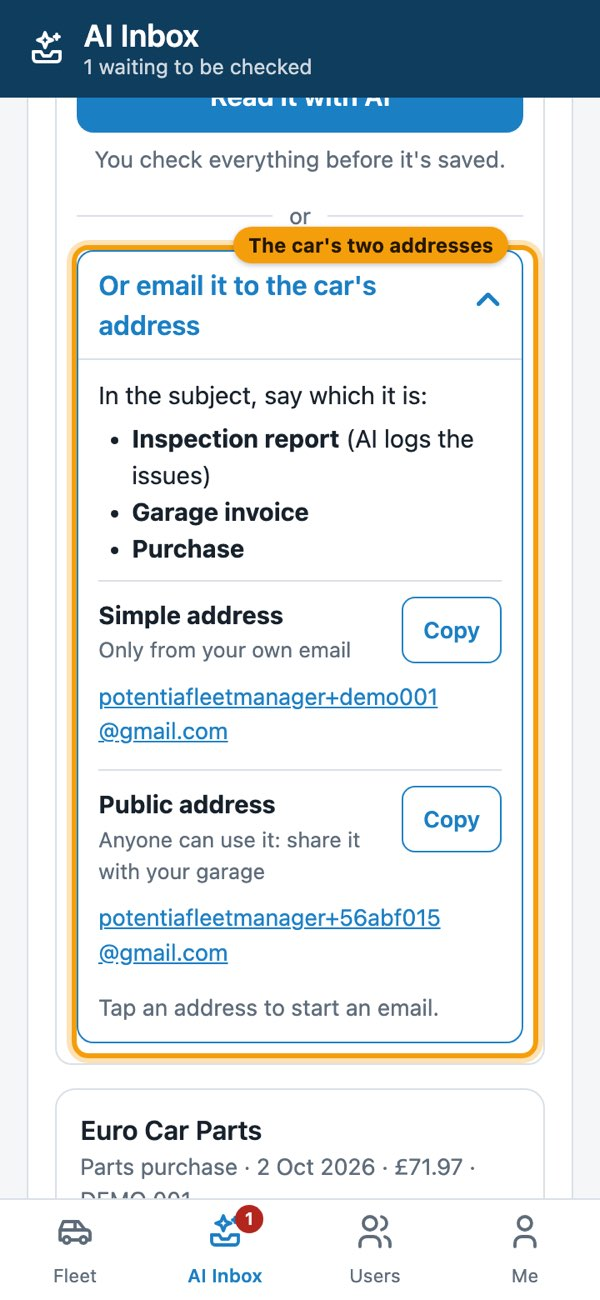
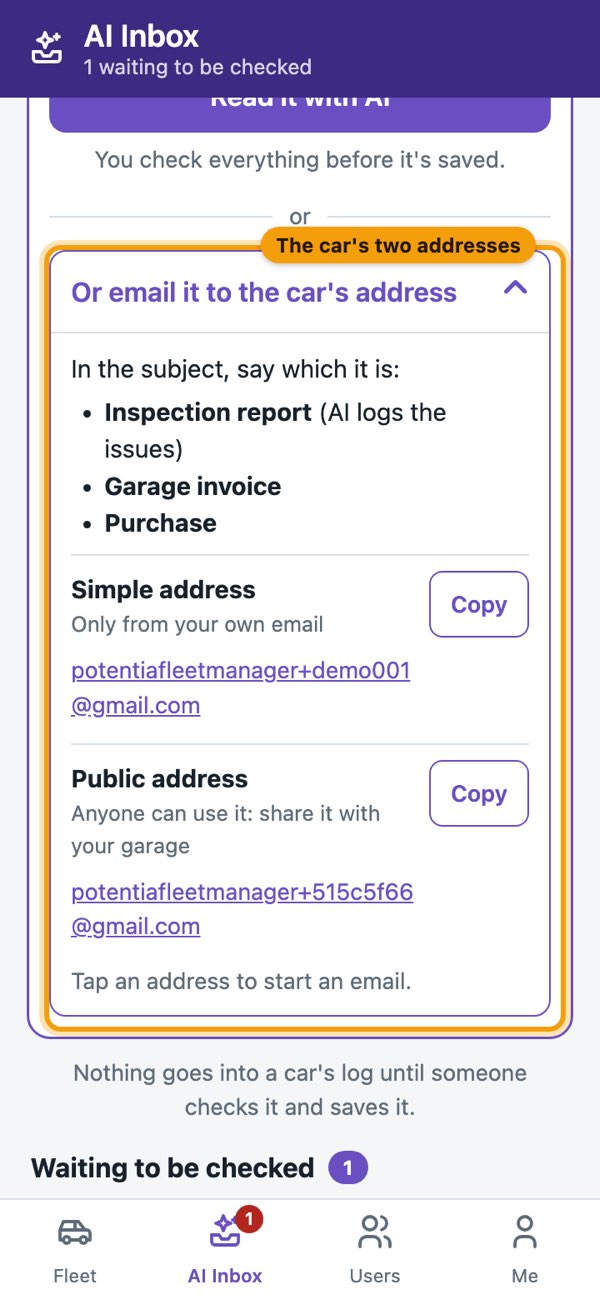
The AI Inbox is purple, with an Add with AI button worded the same as on a car's page; Add entry is now Manually log an entry

diff --git a/web/views-inbox.js b/web/views-inbox.js
@@ -115,6 +115,17 @@
     }
   }
 
+  // ---------- the "Add with AI" face, the same on the AI Inbox and on a car's page ----------
+  var ADD_WITH_AI = 'Use AI to rapidly process inspection reports, garage invoices or purchase receipts.';
+  /** The icon and words of an "Add with AI" button. `foot` is a last line, such as where it goes. */
+  function addWithAi(foot) {
+    return [FleetApp.icon('inbox', 30), el('span', { class: 'ai-add-text' }, [
+      el('span', { class: 'ai-add-title' }, [el('strong', { text: 'Add with AI' }), el('span', { class: 'ai-add-tag', text: 'Generally faster' })]),
+      el('span', { class: 'ai-add-what', text: ADD_WITH_AI }),
+      foot ? el('span', { class: 'ai-add-foot', text: foot }) : null,
+    ])];
+  }
+
   // ---------- emailing instead ----------
   // A car's addresses: simple (from the registration, for your own email) and public (a short reference, for anyone). Asked for once
   var addresses = {};
@@ -267,24 +278,24 @@
     var recentBox = el('div');
     var fileBox = el('div');
     var sharedBox = el('div');
-    root.replaceChildren(el('section', { class: 'card' }, [
-      el('div', { class: 'page-head' }, [el('h1', { text: 'AI Inbox' })]),
-      el('p', { class: 'section-note', text: 'Reports, invoices and receipts waiting to be checked. Nothing is added to a vehicle\'s log until someone has looked at it and saved it.' }),
-      msg, sharedBox, fileBox, listBox, recentBox,
+    var waitingHead = el('h2', { class: 'ai-lead', hidden: true });
+    root.replaceChildren(el('div', { class: 'ai-page' }, [
+      msg, sharedBox, fileBox,
+      el('p', { class: 'muted small-text center ai-promise', text: 'Nothing goes into a car\'s log until someone checks it and saves it.' }),
+      waitingHead, listBox, recentBox,
     ]));
 
     var cars = []; // one list, filled again in place, so the forms see a newer answer
     var forms = [];
     var reading = true;
-    var intro = el('p', { class: 'muted small-text' });
+    var intro = el('p', { class: 'muted small-text', hidden: true });
     FleetApp.setBanner({ title: 'AI Inbox', icon: 'inbox', action: null });
     var flash = FleetApp.takeFlash();
     if (flash) msg.append(UI.notice(flash.kind === 'ok' ? 'ok' : 'info', flash.text)); // e.g. "3 receipts added"
 
-    function explainAdding() {
-      intro.textContent = reading
-        ? 'Take a photo, or choose photos or PDFs. AI reads them and you check everything before it is saved.'
-        : 'Take a photo, or choose a photo or PDF. Automatic reading is not switched on yet, so you will fill the details in yourself.';
+    function explainAdding() { // only needed when AI cannot read: otherwise the button says it all
+      intro.hidden = reading;
+      intro.textContent = 'Take a photo, or choose a photo or PDF. Automatic reading is not switched on yet, so you will fill the details in yourself.';
     }
     function newForm(carId, preset, onSent) {
       var form = uploadForm(cars, carId, preset, onSent);
@@ -293,10 +304,9 @@
     }
     function addBlock() {
       explainAdding();
-      return el('details', { class: 'copy-section', open: !!ctx.query.car || undefined }, [
-        el('summary', { text: 'Add an inspection report, garage invoice or purchase receipt' }),
-        intro,
-        newForm(ctx.query.car, null, null),
+      return el('details', { class: 'ai-card', open: !!ctx.query.car || undefined }, [
+        el('summary', {}, addWithAi('')),
+        el('div', { class: 'ai-card-body' }, [intro, newForm(ctx.query.car, null, null)]),
       ]);
     }
     // The forms are drawn once (so a chosen file is never lost); a newer list of cars only refreshes their pickers
@@ -344,11 +354,13 @@
       explainAdding();
       if (!saved) setCount(data.open.length); // the number on the menu is only ever set from a fresh answer
       FleetApp.setBanner({ subtitle: data.open.length ? data.open.length + ' waiting to be checked' : 'Nothing waiting' });
+      waitingHead.hidden = !data.open.length;
+      waitingHead.replaceChildren(document.createTextNode('Waiting to be checked'), el('span', { class: 'ai-count', text: String(data.open.length) }));
       listBox.replaceChildren.apply(listBox, data.open.length ? data.open.map(row) : [el('p', { class: 'muted', text: 'Nothing is waiting. Add something above' + (data.reading ? '' : ', or email it once that is switched on') + '.' })]);
       var wasOpen = !!recentBox.querySelector('details[open]');
       recentBox.replaceChildren();
       if (data.recent.length) {
-        recentBox.append(el('details', { class: 'copy-section', open: wasOpen || undefined }, [el('summary', { text: 'Recently handled (' + data.recent.length + ')' }), el('div', { class: 'stack' }, data.recent.map(row))]));
+        recentBox.append(el('details', { class: 'ai-recent', open: wasOpen || undefined }, [el('summary', { text: 'Recently handled (' + data.recent.length + ')' }), el('div', { class: 'stack' }, data.recent.map(row))]));
       }
     }
     function failed(e) {
@@ -535,5 +547,5 @@
     }
   };
 
-  window.InboxUI = { panel: panel, send: send, destination: destination, openResult: openResult, refreshCount: refreshCount, getCount: function () { return count; } };
+  window.InboxUI = { addWithAi: addWithAi, panel: panel, send: send, destination: destination, openResult: openResult, refreshCount: refreshCount, getCount: function () { return count; } };
 })();

diff --git a/web/styles.css b/web/styles.css
@@ -790,16 +790,45 @@ details.collapsible:has(.bin-card) { border-style: dashed; background: var(--bg)
 .entry-actions .btn { flex: 1 1 0; text-align: center; justify-content: center; }
 .btn.danger-outline { background: transparent; color: var(--bad); border: 1px solid var(--bad); }
 
-/* the car page's way into the AI Inbox */
-.ai-add { display: flex; align-items: center; gap: 12px; margin-top: 10px; min-height: 56px; padding: 10px 12px; border: 1.5px solid var(--note); border-radius: 10px; background: color-mix(in srgb, var(--note) 7%, var(--surface)); color: var(--note); text-decoration: none; }
+/* "Add with AI": a car page's way into the AI Inbox, and the button that opens the form there */
+.ai-add, .ai-card > summary { display: flex; align-items: center; gap: 12px; padding: 12px; color: var(--note); background: color-mix(in srgb, var(--note) 8%, var(--surface)); }
+.ai-add { margin-top: 10px; border: 1.5px solid var(--note); border-radius: 14px; text-decoration: none; }
 .ai-add[hidden] { display: none; }
-.ai-add .ico { display: flex; flex: none; }
-.ai-add-text { flex: 1; min-width: 0; display: flex; flex-direction: column; line-height: 1.35; }
-.ai-add-text strong { font-size: 1.05rem; }
+.ai-add .ico, .ai-card > summary .ico { display: flex; flex: none; }
+.ai-add-text { flex: 1; min-width: 0; display: flex; flex-direction: column; gap: 3px; line-height: 1.35; }
 .ai-add-title { display: flex; flex-wrap: wrap; align-items: center; column-gap: 8px; row-gap: 2px; }
+.ai-add-title strong { font-size: 1.15rem; }
 .ai-add-tag { font-size: 0.72rem; font-weight: 700; padding: 1px 8px; border-radius: 999px; background: var(--note); color: var(--surface); }
-.ai-add-what { font-size: 0.8rem; color: var(--text); }
-.ai-add-arrow { font-size: 1.25rem; font-weight: 700; }
+.ai-add-what { font-size: 0.84rem; font-weight: 400; color: var(--text); }
+.ai-add-foot { font-size: 0.82rem; font-weight: 700; margin-top: 2px; }
+
+/* the AI section is purple: its pages take the violet as their accent, with a deep purple banner */
+body.ai-section { --accent: var(--note); }
+body.ai-section .topbar { background: #3d2a82; }
+body.ai-section input[type="file"]::file-selector-button { font: inherit; font-size: 0.88rem; font-weight: 600; color: var(--note); background: var(--surface); border: 1px solid var(--note); border-radius: 8px; padding: 7px 12px; margin-right: 10px; cursor: pointer; }
+@media (prefers-color-scheme: dark) {
+  :root:not([data-theme="light"]) body.ai-section .topbar { background: #2e2163; }
+  :root:not([data-theme="light"]) body.ai-section .btn:not(.secondary):not(.danger):not(.danger-outline) { background: #7458d6; color: #fff; }
+}
+/* the card that holds the form (not clipped: the car picker opens over its edge) */
+.ai-card { border: 1.5px solid var(--note); border-radius: 14px; background: var(--surface); }
+.ai-card > summary { cursor: pointer; list-style: none; border-radius: 12.5px; }
+.ai-card > summary::-webkit-details-marker { display: none; }
+.ai-card > summary::after { content: '⌄'; flex: none; font-size: 1.4rem; line-height: 1; }
+.ai-card[open] > summary { border-radius: 12.5px 12.5px 0 0; border-bottom: 1.5px solid var(--note); }
+.ai-card[open] > summary::after { content: '⌃'; }
+.ai-card-body { padding: 14px 12px 12px; }
+.ai-card-body > p:first-child { margin-top: 0; }
+.ai-promise { margin: 10px 8px 14px; }
+.ai-lead { display: flex; align-items: center; gap: 8px; font-size: 1rem; margin: 4px 2px 8px; }
+.ai-lead[hidden] { display: none; }
+.ai-count { background: var(--note); color: var(--surface); border-radius: 999px; font-size: 0.75rem; padding: 1px 9px; }
+.ai-page .inbox-row { background: var(--surface); border-left: 4px solid var(--note); }
+.ai-page .chip.active { color: var(--note); background: color-mix(in srgb, var(--note) 12%, var(--surface)); border-color: transparent; }
+.ai-recent { margin-top: 14px; }
+.ai-recent > summary { cursor: pointer; min-height: 44px; display: flex; align-items: center; gap: 6px; font-weight: 700; color: var(--note); }
+.ai-page .report-box { background: var(--surface); border-color: var(--note); }
+
 /* in the AI Inbox form: the note under Read it with AI, and emailing instead */
 .read-note { margin: 6px 0 0; }
 .reads-left { display: block; color: var(--text); }

diff --git a/web/views-guide.js b/web/views-guide.js
@@ -139,7 +139,7 @@
         el('li', {}, [b('Maintenance:'), document.createTextNode(' work done (servicing, repairs), with parts and labour.')]),
         el('li', {}, [b('Purchase:'), document.createTextNode(' parts you have bought, which you later fit in a maintenance entry.')]),
       ]),
-      p([b('Create one'), document.createTextNode(' by hand with '), link('add', 'Add entry'), document.createTextNode(' ('), link('addissue', 'issue'), document.createTextNode(', '), link('addmaint', 'maintenance'), document.createTextNode(', '), link('addpurchase', 'purchase'), document.createTextNode('), or with AI by emailing or uploading a receipt (see 1).')]),
+      p([b('Create one'), document.createTextNode(' by hand with '), link('add', 'Manually log an entry'), document.createTextNode(' ('), link('addissue', 'issue'), document.createTextNode(', '), link('addmaint', 'maintenance'), document.createTextNode(', '), link('addpurchase', 'purchase'), document.createTextNode('), or with AI by emailing or uploading a receipt (see 1).')]),
       p([b('Reminders'), document.createTextNode(' are separate. '), link('reminders', 'Reminders'), document.createTextNode(' come in two types: '), b('regular maintenance'), document.createTextNode(' (an oil change, tyre check), done by logging maintenance, and '), b('compliance'), document.createTextNode(' (MOT, insurance, road tax), which you mark renewed with its new expiry date.')]),
       shot('guide-addentry', 'Choosing the kind of entry'),
       p([document.createTextNode('As the log grows, tap a coloured tile at the top of the '), link('log', 'log'), document.createTextNode(' to see just one kind. Tap '), b('Select'), document.createTextNode(' to share or delete several at once.')]),

diff --git a/web/views-entries.js b/web/views-entries.js
@@ -439,18 +439,11 @@
     }
 
     // Reports, invoices and receipts are added through the AI Inbox: this opens it with the car already chosen
-    var aiButton = el('a', { class: 'ai-add', href: '#/inbox?car=' + encodeURIComponent(car.id) }, [
-      FleetApp.icon('inbox', 28),
-      el('span', { class: 'ai-add-text' }, [
-        el('span', { class: 'ai-add-title' }, [el('strong', { text: 'Add with AI' }), el('span', { class: 'ai-add-tag', text: 'Generally faster' })]),
-        el('span', { class: 'ai-add-what', text: 'Report, invoice or receipt · opens the AI Inbox' }),
-      ]),
-      el('span', { class: 'ai-add-arrow', 'aria-hidden': 'true', text: '→' }),
-    ]);
+    var aiButton = el('a', { class: 'ai-add', href: '#/inbox?car=' + encodeURIComponent(car.id) }, InboxUI.addWithAi('Opens the AI Inbox →'));
     FleetApi.call('getReceiptStatus').then(function (r) { if (!r.data.available) aiButton.hidden = true; }).catch(function () { /* offline: leave it */ });
     return el('section', { class: 'card' }, [
       el('h2', { text: 'Maintenance & Issues Log' }),
-      el('a', { class: 'btn block big', href: '#/car/' + car.id + '/add', text: 'Add entry' }),
+      el('a', { class: 'btn block big', href: '#/car/' + car.id + '/add', text: 'Manually log an entry' }),
       aiButton,
       chips, selectTools, list,
     ]);

diff --git a/web/app.js b/web/app.js
@@ -274,6 +274,11 @@
     var signedIn = FleetAuth.hasSession() && !!FleetAuth.getUser();
     var onGuestPage = GUEST_PATH.test(currentPath) || (!FleetAuth.hasSession());
     bar.hidden = !signedIn || onGuestPage;
+    // the AI Inbox and the pages under it are purple, the phone's top strip included
+    var ai = !bar.hidden && currentTab(currentPath) === 'inbox';
+    document.body.classList.toggle('ai-section', ai);
+    var strip = document.querySelector('meta[name="theme-color"]');
+    if (strip) strip.setAttribute('content', ai ? '#3d2a82' : '#0f3d5e');
     document.body.classList.toggle('has-tabs', !bar.hidden);
     document.body.classList.toggle('on-me-page', !bar.hidden && currentPath === '/profile'); // the version line, Privacy and Terms live at the bottom of Me
     if (bar.hidden) { bar.replaceChildren(); return; }
